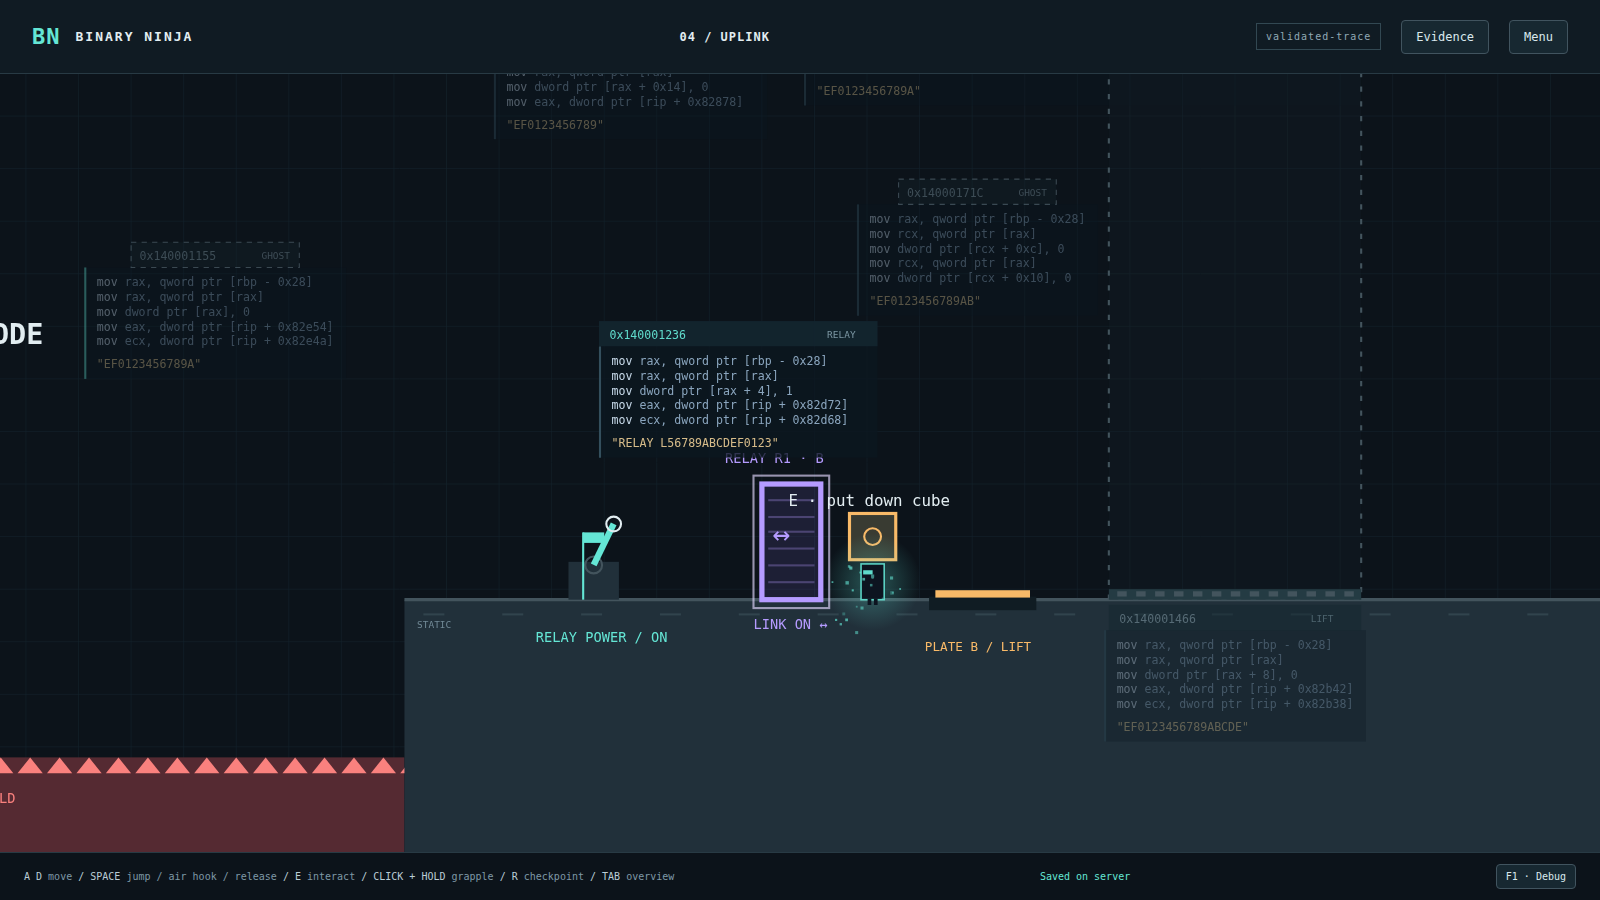
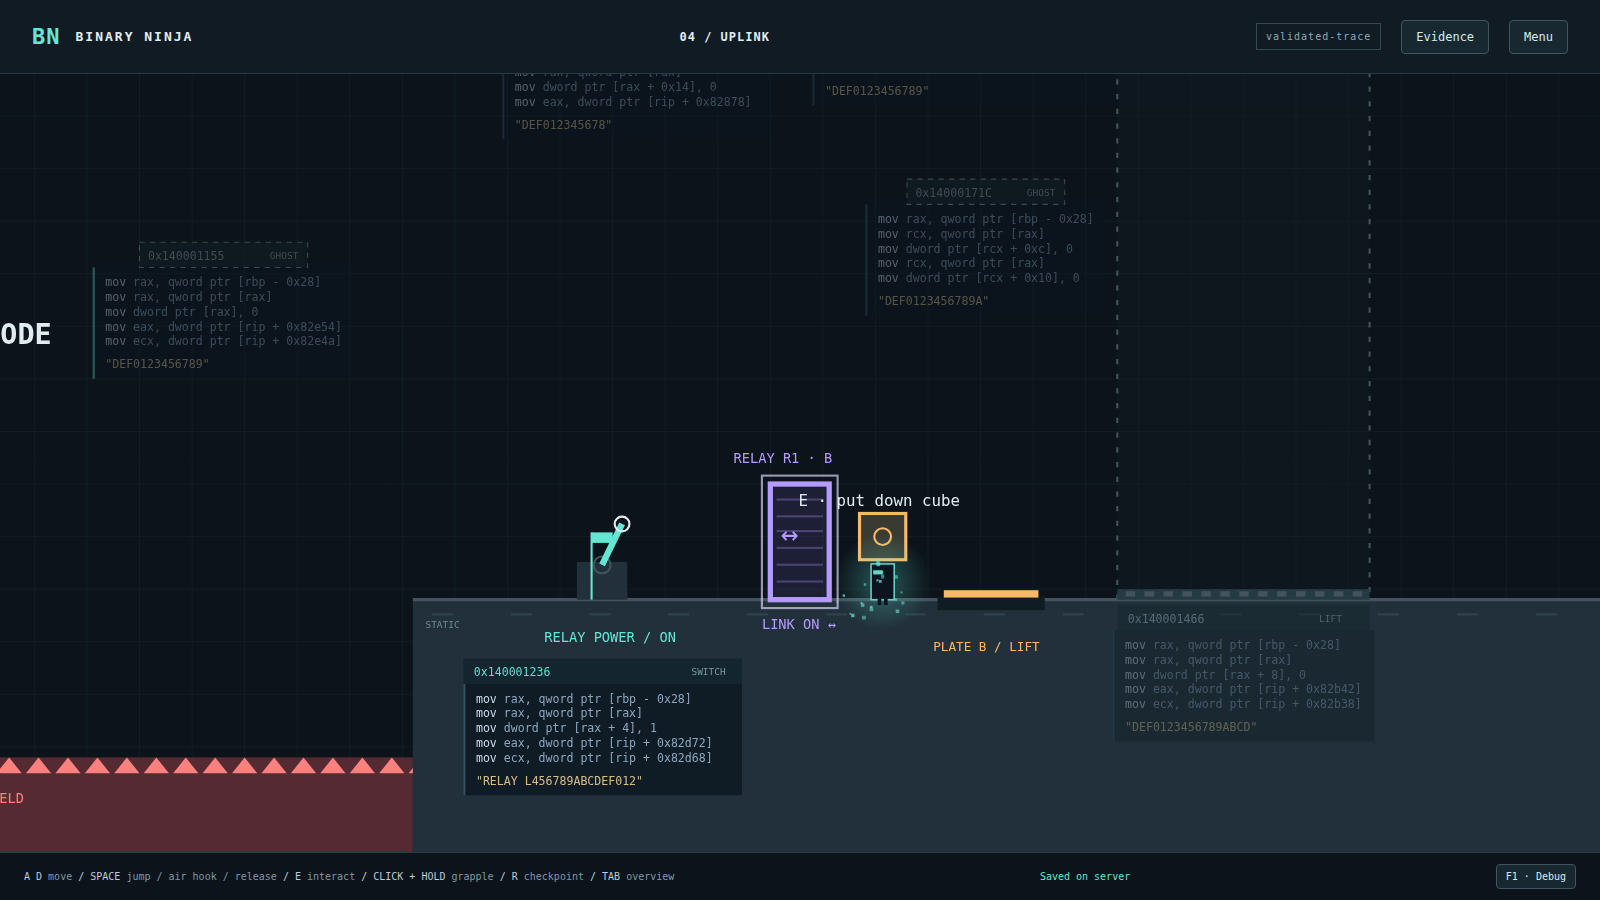
Move relay code display beneath its power switch

diff --git a/src/slice/evidence-render.ts b/src/slice/evidence-render.ts
@@ -58,9 +58,11 @@ export function drawPlatformListings(c: CanvasRenderingContext2D, w: PuzzleWorld
 export function drawMachineListings(c: CanvasRenderingContext2D, w: PuzzleWorld, replay: TracePlayback, presentation: MachinePresentation): void {
     const trace = replay.trace;
     if (w.room.id !== 'uplink' || !trace) return;
-    const gate = w.room.gates![0].gates[1], lift = w.room.lifts![0], exit = w.room.exit;
+    const relaySwitch = w.room.lever!, lift = w.room.lifts![0], exit = w.room.exit;
     const devices = [
-        { id: 'relay-control-display', type: 'RELAY', signal: 'relayGates' as const, box: { x: gate.x - 155, y: gate.y - 155, w: 265, h: 24 }, pulse: w.gates[0].pulse },
+        // Mount the retained relay-output listing under its power control, clear of the gate.
+        // This is frontend presentation placement; the exported binary binding stays unchanged.
+        { id: 'relay-control-display', type: 'SWITCH', signal: 'relayGates' as const, box: { x: relaySwitch.x - 132, y: relaySwitch.y + 56, w: 265, h: 24 }, pulse: w.gates[0].pulse },
         { id: 'lift-control-display', type: 'LIFT', signal: 'liftField' as const, box: { x: lift.x, y: lift.y + lift.h + 5, w: lift.w, h: 24 }, pulse: w.lifts[0].pulse },
         { id: 'exit-display', type: 'EXIT', signal: 'exitDoor' as const, box: { x: exit.x - 65, y: exit.y + exit.h + 32, w: 260, h: 24 }, pulse: w.displayPulse },
     ];

diff --git a/docs/c8-vertical-slice.md b/docs/c8-vertical-slice.md
@@ -526,7 +526,11 @@ Removed the detached assembly cards/tethers, permanent ring labels, repeated
 “REAL x64 / full region in EVIDENCE” footers, the duplicate UPLINK wall string
 panel, and decorative UPLINK wiring lines. Trace telemetry is now debug-only;
 real execution still highlights instructions and pulses machinery during play.
-Equipment listings sit against the relay, lift emitter and exit architecture.
+Equipment listings sit beneath the relay power switch, lift emitter and exit
+architecture. Relay gates themselves have no code listing. The switch listing
+shows the same retained relay-output region; its location is authored presentation,
+not a change to the exported machine binding. This also demonstrates the
+under-button display treatment without duplicating another floating panel.
 Strings remain authored effects, identified in the menu and evidence inspector.
 
 Regular platforms here means floating code slabs. All enabled code slabs and
